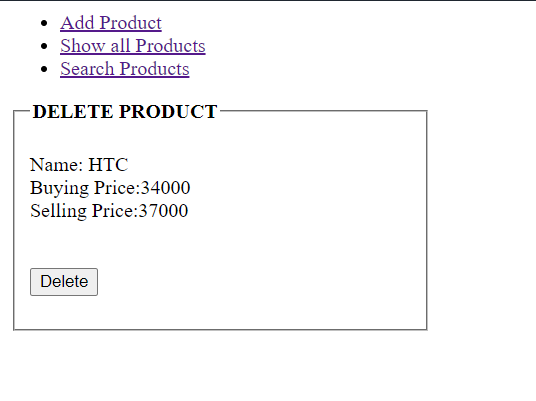
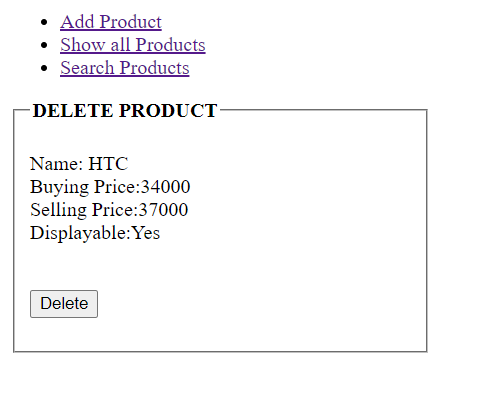
first commit

Changed region(s): [[0.0, 0.2394, 0.8932, 0.8678], [0.0616, 0.3591, 0.4004, 0.5985], [0.0616, 0.0299, 0.4312, 0.2095]]

diff --git a/Lab_task_05/model/model.php b/Lab_task_05/model/model.php
@@ -47,15 +47,15 @@ function searchProduct($Product_name){
 
 function addProduct($data){
 	$conn = db_conn();
-    $selectQuery = "INSERT into products (Name, BuyingPrice, SellingPrice)
-VALUES (:name, :BuyingPrice, :SellingPrice)";
+    $selectQuery = "INSERT into products (Name, BuyingPrice, SellingPrice,Displayable)
+VALUES (:name, :BuyingPrice, :SellingPrice, :Displayable)";
     try{
         $stmt = $conn->prepare($selectQuery);
         $stmt->execute([
         	':name' => $data['name'],
         	':BuyingPrice' => $data['BuyingPrice'],
-        	':SellingPrice' => $data['SellingPrice']
-        	
+        	':SellingPrice' => $data['SellingPrice'],
+        	':Displayable' => $data['Displayable']
         ]);
     }catch(PDOException $e){
         echo $e->getMessage();
@@ -68,11 +68,12 @@ VALUES (:name, :BuyingPrice, :SellingPrice)";
 
 function updateProduct($id, $data){
     $conn = db_conn();
-    $selectQuery = "UPDATE products set Name = ?, BuyingPrice = ?, SellingPrice = ? where ID = ?";
+    $selectQuery = "UPDATE products set Name = ?, BuyingPrice = ?, SellingPrice = ?, Displayable = ? where ID = ?";
     try{
         $stmt = $conn->prepare($selectQuery);
         $stmt->execute([
-        	$data['name'], $data['BuyingPrice'], $data['SellingPrice'], $id
+        	$data['name'], $data['BuyingPrice'], $data['SellingPrice'],
+            $data['Displayable'], $id
         ]);
     }catch(PDOException $e){
         echo $e->getMessage();

diff --git a/Lab_task_05/controller/updateProduct.php b/Lab_task_05/controller/updateProduct.php
@@ -7,18 +7,21 @@ if (isset($_POST['updateProduct'])) {
 	$data['BuyingPrice'] = $_POST['BuyingPrice'];
 	$data['SellingPrice'] = $_POST['SellingPrice'];
 	
-	// $data['password'] = password_hash($_POST['password'], PASSWORD_BCRYPT, ["cost" => 12]);;
-	// $data['image'] = basename($_FILES["image"]["name"]);
-	// $target_dir = "../uploads/";
-	// $target_file = $target_dir . basename($_FILES["image"]["name"]);
-
+	if(isset($_POST['display']))
+	{
+		$data['Displayable'] = $_POST['display'];
+	}
+	else{
+		$data['Displayable'] = "No";
+	}
 
   if (updateProduct($_POST['id'], $data)) {
   	echo 'Successfully updated!!';
   	//redirect to showStudent
   	header('Location: ../showProduct.php?id=' . $_POST["id"]);
   }
-} else {
+} 
+else {
 	echo 'You are not allowed to access this page.';
 }
 

diff --git a/Lab_task_05/editProduct.php b/Lab_task_05/editProduct.php
@@ -26,10 +26,14 @@ $product = fetchProduct($_GET['id']);
   <input value="<?php echo $product['BuyingPrice'] ?>" type="text" id="BuyingPrice" name="BuyingPrice"><br>
   <label for="SellingPrice">Selling Price:</label><br>
   <input value="<?php echo $product['SellingPrice'] ?>" type="text" id="SellingPrice" name="SellingPrice"><br><br>
+  <label for="display"> Display</label><br>
+  <input  value="Yes" type="checkbox" id="display" name="display" >
   
+
   <input type="hidden" name="id" value="<?php echo $_GET['id'] ?>">
-  <input type="checkbox" name="Display" /> Display
+
   <br><br>
+
   <input type="submit" name = "updateProduct" value="Save">
  
 </form> 

diff --git a/Lab_task_05/addProduct.php b/Lab_task_05/addProduct.php
@@ -18,9 +18,10 @@
   <label for="BuyingPrice">Buying Price:</label><br>
   <input type="text" id="BuyingPrice" name="BuyingPrice"><br>
   <label for="SellingPrice">Selling Price:</label><br>
-  <input type="text" id="SellingPrice" name="SellingPrice"><br>
-  <br>
-  <input type="checkbox" name="Display" /> Display
+  <input type="text" id="SellingPrice" name="SellingPrice"><br><br>
+  <label for="display">Display</label>
+  <input type="checkbox" name="display" id="display" value="Yes">
+  
   <br><br>
   <input type="submit" name = "createProduct" value="Save">
 

diff --git a/Lab_task_05/showDeleteProduct.php b/Lab_task_05/showDeleteProduct.php
@@ -27,6 +27,8 @@ $product = fetchProduct($_GET['id']);
   <br>
   <label for="SellingPrice">Selling Price:</label><?php echo $product['SellingPrice'] ?>
   <br>
+  <label for="Displayable">Displayable:</label><?php echo $product['Displayable'] ?>
+  <br>
   
   <input type="hidden" name="id" value="<?php echo $_GET['id'] ?>">
   <br><br>

diff --git a/Lab_task_05/controller/createProduct.php b/Lab_task_05/controller/createProduct.php
@@ -7,6 +7,14 @@ if (isset($_POST['createProduct'])) {
 	$data['BuyingPrice'] = $_POST['BuyingPrice'];
 	$data['SellingPrice'] = $_POST['SellingPrice'];
 
+	if(isset($_POST['display']))
+	{
+		$data['Displayable'] = $_POST['display'];
+	}
+	else{
+		$data['Displayable'] = "No";
+	}
+
 
 	
 
